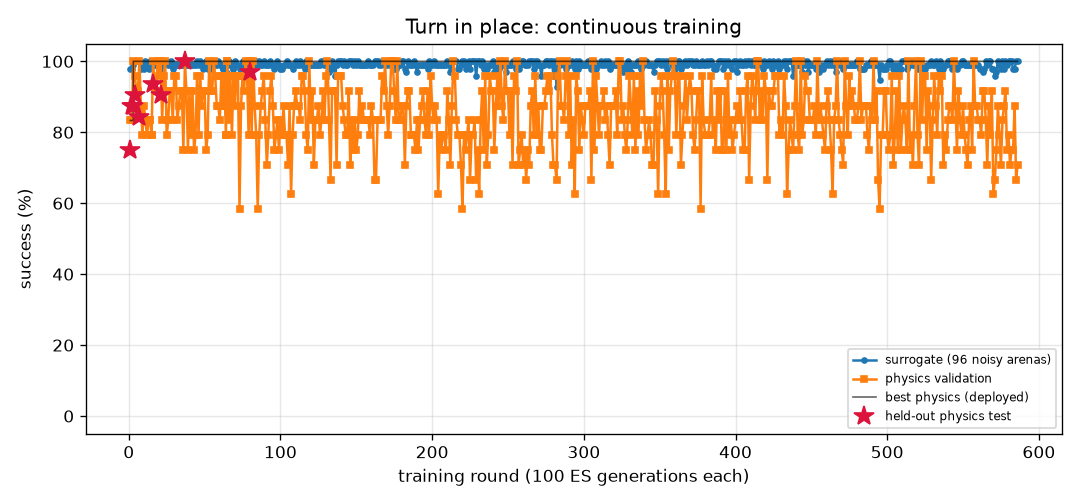
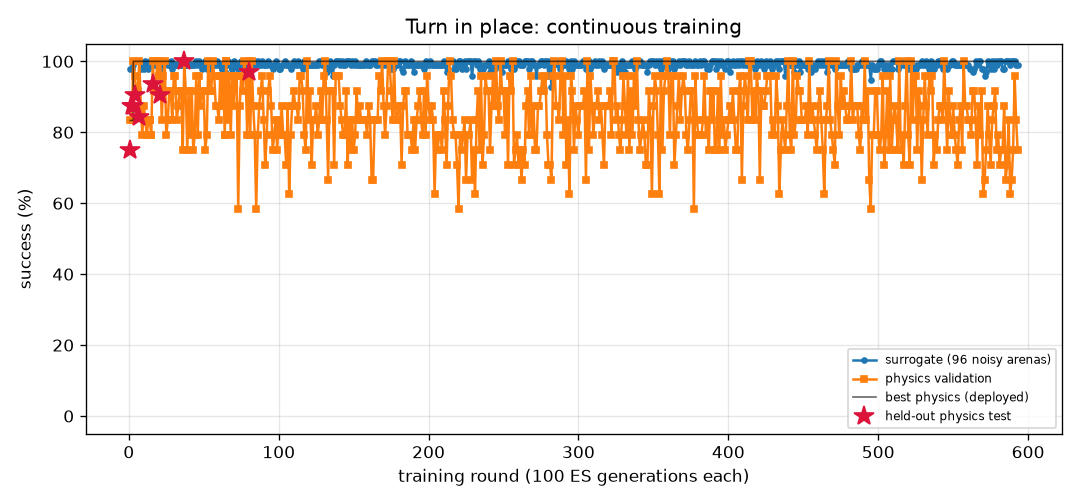
FlyLab: continuous training progress
- walk_forward: optimal, physics val 100% of 24, round 152
- turn: optimal, physics val 100% of 24, round 593
- goto: optimal, physics val 100% of 24, round 138
- odor_seek: optimal, physics val 100% of 24, round 128
- odor_avoid: optimal, physics val 100% of 24, round 569
- light_seek: optimal, physics val 100% of 24, round 322
- light_avoid: optimal, physics val 100% of 24, round 302

diff --git a/projects/09_flylab/training/turn/REPORT.md b/projects/09_flylab/training/turn/REPORT.md
@@ -1,14 +1,14 @@
 # Turn in place (`turn`) — training report
 
-*Auto-generated by `train_brains.py`, last updated 2026-10-20T23:16:11.*
+*Auto-generated by `train_brains.py`, last updated 2026-10-21T20:31:32.*
 
 ![curve](curve.png)
 
 | | |
 |---|---|
-| rounds | 586 |
-| ES generations | 58600 |
-| physics runs | 14310 |
+| rounds | 593 |
+| ES generations | 59300 |
+| physics runs | 14478 |
 | status | **optimal** |
 | best brain | round 80: physics validation **100%** on 24 arenas, surrogate 100% |
 | held-out physics test | **97%** on 32 unseen arenas (95% CI 84%-99%) (errors: [1.6, 3.3, 6.3, 3.7, 1.1, 0.4, 2.4, 2.9, 0.1, 2.6, 0.5, 2.7, 1.5, 3.1, 4.5, 0.2, 0.5, 1.1, 2.0, 4.4, 2.8, 3.2, 0.3, 2.2, 0.5, 3.0, 0.3, 5.4, 0.4, 1.0, 4.7, 10.7]) |
@@ -17,13 +17,6 @@ Physics error per arena: deg from target heading (< 20 = success).
 
 | round | level | gens | sigma | surrogate | physics val | val errors | test | note |
 |---:|---:|---:|---:|---:|---:|---|---:|---|
-| 547 | 3 | 54700 | 0.025 | 99% | 92% | [5.7, 1.5, 5.7, 0.9, 0.4, 10.5, 6.3, 7.0, 6.2, 2.0, 4.9, 1.8, 0.2, 5.1, 4.0, 1.0, 1.7, 1.9, 1.1, 1.1, 2.2, 2.1, 6.7, 7.3] |  |  |
-| 548 | 3 | 54800 | 0.025 | 99% | 83% | [3.6, 1.2, 5.1, 0.3, 0.7, 1.9, 7.1, 7.3, 7.7, 1.9, 4.8, 3.0, 0.4, 0.4, 3.6, 3.9, 3.0, 4.6, 3.9, 2.4, 8.2, 3.0, 5.4, 9.2] |  | restart from best |
-| 549 | 3 | 54900 | 0.024 | 100% | 79% | [4.8, 3.3, 5.0, 0.2, 18.7, 1.6, 6.0, 9.0, 3.7, 0.4, 4.9, 0.3, 0.4, 3.3, 5.2, 11.7, 0.1, 2.2, 7.6, 4.5, 2.4, 1.1, 5.3, 6.6] |  |  |
-| 550 | 3 | 55000 | 0.024 | 100% | 88% | [8.2, 10.8, 9.9, 4.2, 3.0, 0.3, 3.6, 0.3, 3.3, 1.8, 2.3, 3.2, 3.5, 2.7, 3.3, 2.7, 3.5, 2.2, 1.7, 3.1, 7.4, 1.0, 2.3, 1.9] |  |  |
-| 551 | 3 | 55100 | 0.024 | 99% | 79% | [9.8, 9.2, 0.2, 1.5, 1.3, 2.0, 3.5, 4.0, 4.9, 0.5, 4.1, 3.5, 2.1, 4.6, 3.2, 1.9, 0.0, 0.9, 1.3, 1.1, 8.1, 2.3, 2.9, 4.6] |  |  |
-| 552 | 3 | 55200 | 0.025 | 99% | 75% | [0.5, 7.8, 0.3, 1.2, 1.1, 0.8, 5.4, 7.5, 6.1, 0.8, 3.9, 1.3, 1.6, 1.3, 3.6, 0.6, 0.3, 0.5, 1.0, 0.6, 5.2, 3.2, 5.2, 1.9] |  | restart from best |
-| 553 | 3 | 55300 | 0.024 | 99% | 71% | [7.9, 7.7, 0.7, 2.6, 2.6, 0.6, 5.4, 3.7, 4.6, 1.0, 4.4, 1.7, 1.9, 3.3, 4.2, 1.7, 2.8, 1.8, 1.9, 0.5, 4.4, 0.7, 4.4, 4.9] |  |  |
 | 554 | 3 | 55400 | 0.025 | 99% | 83% | [4.1, 7.6, 4.6, 2.5, 1.2, 3.7, 4.4, 2.2, 5.8, 0.2, 4.3, 1.0, 3.2, 4.0, 3.8, 2.3, 0.7, 1.8, 3.0, 1.9, 4.4, 0.2, 5.8, 2.7] |  |  |
 | 555 | 3 | 55500 | 0.025 | 99% | 88% | [8.8, 10.0, 2.3, 4.2, 2.2, 3.5, 3.3, 0.8, 2.0, 1.8, 3.1, 3.2, 2.8, 5.6, 2.6, 1.1, 3.0, 1.3, 0.4, 1.8, 5.6, 0.5, 3.3, 2.6] |  |  |
 | 556 | 3 | 55600 | 0.025 | 99% | 75% | [5.5, 7.0, 0.4, 2.1, 3.3, 1.6, 2.4, 0.2, 4.0, 1.3, 2.8, 1.5, 3.7, 3.8, 3.1, 1.9, 1.8, 0.2, 2.1, 0.8, 7.5, 0.7, 4.6, 3.8] |  | restart from best |
@@ -57,3 +50,10 @@ Physics error per arena: deg from target heading (< 20 = success).
 | 584 | 3 | 58400 | 0.025 | 98% | 88% | [3.5, 4.6, 13.9, 1.4, 2.2, 0.4, 4.7, 0.7, 5.6, 0.0, 3.5, 1.2, 1.4, 0.4, 4.5, 2.0, 1.2, 0.9, 2.4, 1.1, 5.1, 1.1, 3.5, 3.5] |  | restart from best |
 | 585 | 3 | 58500 | 0.024 | 100% | 67% | [2.2, 3.2, 0.2, 0.9, 1.3, 1.5, 7.5, 6.2, 8.1, 1.9, 5.2, 2.6, 1.3, 0.4, 5.6, 2.2, 2.2, 4.0, 2.2, 2.4, 2.0, 3.8, 6.8, 7.3] |  |  |
 | 586 | 3 | 58600 | 0.024 | 100% | 71% | [1.1, 6.2, 10.0, 4.8, 2.0, 0.9, 6.3, 7.8, 6.7, 1.4, 5.6, 1.7, 4.0, 1.0, 5.6, 4.1, 1.8, 4.7, 3.6, 3.1, 3.4, 1.4, 7.3, 9.6] |  |  |
+| 587 | 3 | 58700 | 0.024 | 100% | 83% | [5.7, 3.6, 4.9, 0.5, 4.9, 2.8, 6.9, 7.9, 9.0, 1.5, 7.7, 3.8, 2.2, 1.2, 6.5, 3.5, 3.4, 4.8, 3.1, 3.8, 3.5, 6.1, 7.9, 7.6] |  |  |
+| 588 | 3 | 58800 | 0.024 | 99% | 62% | [9.0, 9.9, 3.5, 0.8, 4.3, 1.1, 4.2, 7.3, 3.8, 0.7, 3.8, 4.0, 1.2, 2.6, 3.7, 2.4, 3.4, 0.4, 2.6, 2.1, 9.2, 2.9, 1.0, 1.6] |  | restart from best |
+| 589 | 3 | 58900 | 0.024 | 100% | 67% | [7.7, 5.7, 2.2, 2.0, 2.5, 2.9, 5.9, 1.7, 5.2, 0.3, 3.8, 0.9, 1.4, 4.6, 4.1, 1.0, 1.1, 1.3, 0.1, 0.3, 6.5, 3.0, 4.4, 4.5] |  |  |
+| 590 | 3 | 59000 | 0.024 | 100% | 75% | [4.9, 5.9, 0.5, 1.7, 13.1, 0.0, 5.2, 1.1, 5.7, 14.9, 3.5, 1.7, 0.4, 3.2, 4.8, 2.3, 1.4, 1.4, 2.0, 1.0, 3.7, 1.2, 4.9, 4.6] |  |  |
+| 591 | 3 | 59100 | 0.024 | 100% | 96% | [4.4, 8.4, 7.4, 3.4, 4.4, 1.7, 4.2, 2.6, 2.2, 1.2, 2.6, 1.0, 2.8, 2.3, 3.4, 1.9, 0.7, 1.7, 1.9, 0.6, 4.0, 0.3, 1.7, 3.3] |  |  |
+| 592 | 3 | 59200 | 0.024 | 99% | 83% | [8.6, 10.4, 6.2, 6.1, 2.5, 1.1, 2.4, 2.5, 3.6, 2.8, 3.2, 2.5, 4.1, 1.5, 2.9, 2.4, 3.3, 0.5, 2.6, 2.8, 7.7, 1.9, 1.0, 5.8] |  | restart from best |
+| 593 | 3 | 59300 | 0.024 | 99% | 75% | [5.4, 8.0, 7.9, 2.9, 2.0, 2.3, 3.6, 4.5, 2.7, 2.1, 3.3, 1.3, 1.8, 4.0, 3.7, 1.0, 0.6, 0.4, 4.3, 1.2, 7.3, 0.4, 5.4, 6.2] |  |  |

diff --git a/README.md b/README.md
@@ -89,17 +89,17 @@ automatically as training improves it.*
 </p>
 
 <!-- BRAINS:START -->
-**Status on 2026-10-20** (rewritten daily by `daily.py`; the [dashboard](https://rohitcraftsyt.github.io/FruitFlyBrain/projects/09_flylab/dashboard/) is live):
+**Status on 2026-10-21** (rewritten daily by `daily.py`; the [dashboard](https://rohitcraftsyt.github.io/FruitFlyBrain/projects/09_flylab/dashboard/) is live):
 
 | Skill brain | Rounds | Physics validation | **Held-out physics test** (95% CI) | Fresh-arena check | Status |
 |---|---:|---:|---:|---:|---|
-| Walk forward | 121 | 100% of 24 | **100% of 32** (89%–100%) | 100% of 16 (2026-10-20) | ✅ optimal |
-| Turn in place | 540 | 100% of 24 | **97% of 32** (84%–99%) | 100% of 16 (2026-10-20) | ✅ optimal |
-| Go to a location | 114 | 100% of 24 | **100% of 32** (89%–100%) | 100% of 16 (2026-10-20) | ✅ optimal |
-| Find food by smell | 108 | 100% of 24 | **100% of 32** (89%–100%) | 100% of 16 (2026-10-20) | ✅ optimal |
-| Escape a bad smell | 531 | 100% of 24 | **97% of 32** (84%–99%) | 100% of 16 (2026-10-20) | ✅ optimal |
-| Walk toward light | 299 | 100% of 24 | **100% of 32** (89%–100%) | 100% of 16 (2026-10-20) | ✅ optimal |
-| Hide from light | 265 | 100% of 24 | **100% of 32** (89%–100%) | 100% of 16 (2026-10-20) | ✅ optimal |
+| Walk forward | 152 | 100% of 24 | **100% of 32** (89%–100%) | 100% of 16 (2026-10-21) | ✅ optimal |
+| Turn in place | 593 | 100% of 24 | **97% of 32** (84%–99%) | 94% of 16 (2026-10-21) | ✅ optimal |
+| Go to a location | 138 | 100% of 24 | **100% of 32** (89%–100%) | 100% of 16 (2026-10-21) | ✅ optimal |
+| Find food by smell | 128 | 100% of 24 | **100% of 32** (89%–100%) | 100% of 16 (2026-10-21) | ✅ optimal |
+| Escape a bad smell | 569 | 100% of 24 | **97% of 32** (84%–99%) | 100% of 16 (2026-10-21) | ✅ optimal |
+| Walk toward light | 322 | 100% of 24 | **100% of 32** (89%–100%) | 100% of 16 (2026-10-21) | ✅ optimal |
+| Hide from light | 302 | 100% of 24 | **100% of 32** (89%–100%) | 100% of 16 (2026-10-21) | ✅ optimal |
 <!-- BRAINS:END -->
 
 **How it got here** (full [engineering log](projects/09_flylab/README.md#making-skills-survive-the-jump-to-physics-engineering-log)):

diff --git a/projects/09_flylab/training/CHECKS.md b/projects/09_flylab/training/CHECKS.md
@@ -1,15 +1,15 @@
 # Daily fresh-arena checks
 
-*Auto-generated by `recheck.py`, last updated 2026-10-20T07:56:44.*
+*Auto-generated by `recheck.py`, last updated 2026-10-21T20:38:04.*
 
 Every day each optimal brain is re-run in MuJoCo on a new set of random arenas it has never seen. The fixed held-out test decides 'optimal' (>= 90%); these checks watch for brains that only look good on that fixed set. Anything under 80% is flagged.
 
 | skill | last check | brain round | fresh arenas | success (95% CI) | last 7 checks |
 |---|---|---:|---:|---|---|
-| Walk forward | 2026-10-20 | 116 | 16 | 100% (81%-100%) | 100% 100% 100% 100% 100% 100% 100% |
-| Turn in place | 2026-10-20 | 80 | 16 | 100% (81%-100%) | 100% 100% 100% 100% 100% 100% 100% |
-| Go to a location | 2026-10-20 | 80 | 16 | 100% (81%-100%) | 100% 100% 100% 100% 100% 100% 100% |
-| Find food by smell | 2026-10-20 | 99 | 16 | 100% (81%-100%) | 100% 100% 100% 100% 100% 100% 100% |
-| Escape a bad smell | 2026-10-20 | 373 | 16 | 100% (81%-100%) | 100% 100% 94% 100% 100% 94% 100% |
-| Walk toward light | 2026-10-20 | 295 | 16 | 100% (81%-100%) | 100% 100% 100% 100% 100% 100% 100% |
-| Hide from light | 2026-10-20 | 159 | 16 | 100% (81%-100%) | 100% 100% 100% 100% 100% 100% 100% |
+| Walk forward | 2026-10-21 | 116 | 16 | 100% (81%-100%) | 100% 100% 100% 100% 100% 100% 100% |
+| Turn in place | 2026-10-21 | 80 | 16 | 94% (72%-99%) | 100% 100% 100% 100% 100% 100% 94% |
+| Go to a location | 2026-10-21 | 80 | 16 | 100% (81%-100%) | 100% 100% 100% 100% 100% 100% 100% |
+| Find food by smell | 2026-10-21 | 99 | 16 | 100% (81%-100%) | 100% 100% 100% 100% 100% 100% 100% |
+| Escape a bad smell | 2026-10-21 | 373 | 16 | 100% (81%-100%) | 100% 94% 100% 100% 94% 100% 100% |
+| Walk toward light | 2026-10-21 | 295 | 16 | 100% (81%-100%) | 100% 100% 100% 100% 100% 100% 100% |
+| Hide from light | 2026-10-21 | 159 | 16 | 100% (81%-100%) | 100% 100% 100% 100% 100% 100% 100% |

diff --git a/projects/09_flylab/training/TRAINING.md b/projects/09_flylab/training/TRAINING.md
@@ -1,13 +1,13 @@
 # FlyLab brains — continuous training log
 
-*Auto-generated by `train_brains.py`, last updated 2026-10-20T23:17:12.*
+*Auto-generated by `train_brains.py`, last updated 2026-10-21T20:39:58.*
 
 Every skill has its own brain and its own training process: surrogate ES rounds, physics validation in MuJoCo, keep-the-best selection, and a held-out physics test that is never used for selection. See each skill's report for its full round-by-round history. Mastery is progressive: passing a level (100% physics validation, >=95% surrogate) doubles the validation and test arena sets; a brain is **optimal** once it holds up at level 3 (>=95% of 24 validation arenas) AND scores >=90% on the 32 held-out test arenas. Test columns show 95% Wilson confidence intervals.
 
 | skill | rounds | ES generations | physics runs | surrogate | physics val | **physics test** | status |
 |---|---:|---:|---:|---:|---:|---:|---|
 | [Walk forward](walk_forward/REPORT.md) | 152 | 15200 | 3662 | 100% | 100% of 24 | 100% of 32 (CI 89-100%) | **optimal** |
-| [Turn in place](turn/REPORT.md) | 586 | 58600 | 14310 | 100% | 100% of 24 | 97% of 32 (CI 84-99%) | **optimal** |
+| [Turn in place](turn/REPORT.md) | 593 | 59300 | 14478 | 100% | 100% of 24 | 97% of 32 (CI 84-99%) | **optimal** |
 | [Go to a location](goto/REPORT.md) | 138 | 13800 | 3198 | 100% | 100% of 24 | 100% of 32 (CI 89-100%) | **optimal** |
 | [Find food by smell](odor_seek/REPORT.md) | 128 | 12800 | 2438 | 100% | 100% of 24 | 100% of 32 (CI 89-100%) | **optimal** |
 | [Escape a bad smell](odor_avoid/REPORT.md) | 569 | 56900 | 10962 | 97% | 100% of 24 | 97% of 32 (CI 84-99%) | **optimal** |
